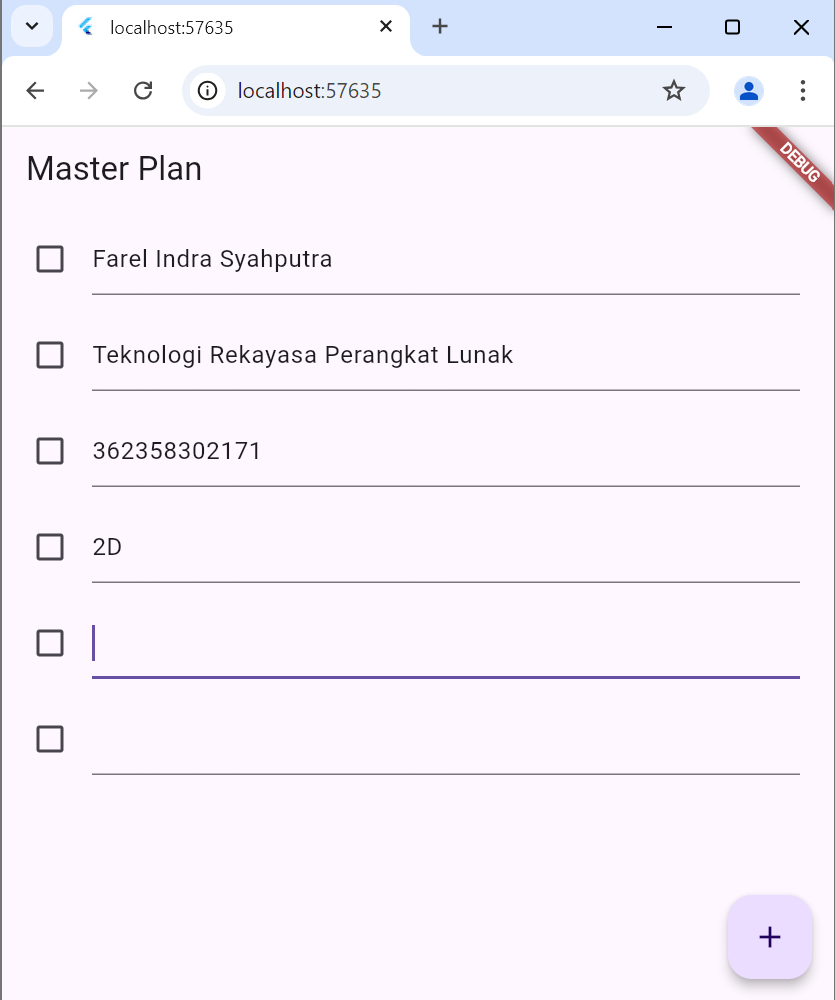
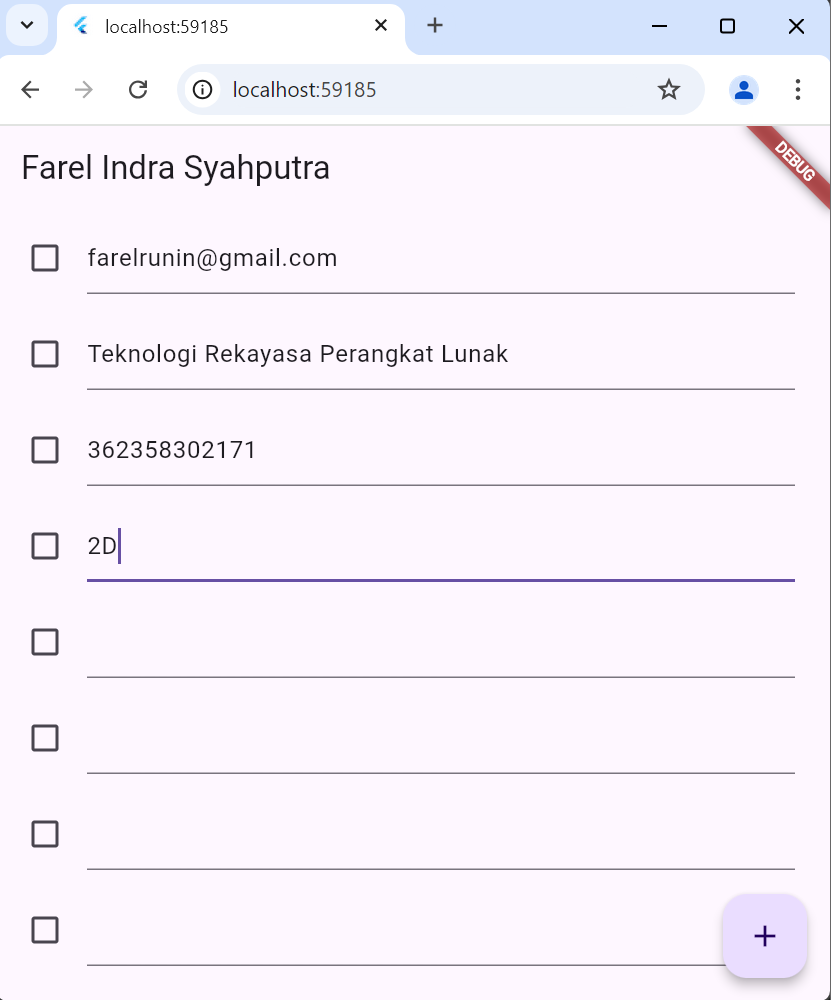
Update message

diff --git a/lib/views/plan_screen.dart b/lib/views/plan_screen.dart
@@ -24,7 +24,7 @@ class _PlanScreenState extends State<PlanScreen> {
   @override
   Widget build(BuildContext context) {
     return Scaffold(
-      appBar: AppBar(title: const Text('Master Plan')),
+      appBar: AppBar(title: const Text('Farel Indra Syahputra')),
       body: _buildList(),
       floatingActionButton: _buildAddTaskButton(),  // Memanggil _buildAddTaskButton
     );
@@ -95,3 +95,5 @@ class _PlanScreenState extends State<PlanScreen> {
     super.dispose();
   }
 }
+
+

diff --git a/README.md b/README.md
@@ -4,6 +4,7 @@
 
 # Tugas Praktikum 1: Dasar State dengan Model-View
 
+# soal
 1. Selesaikan langkah-langkah praktikum tersebut, lalu dokumentasikan berupa GIF hasil
 akhir praktikum beserta penjelasannya di file README.md! Jika Anda menemukan ada
 yang error atau tidak berjalan dengan baik, silakan diperbaiki.
@@ -16,3 +17,47 @@ Anda buat!
 5. Apa kegunaan method pada Langkah 11 dan 13 dalam lifecyle state ?
 6. Kumpulkan laporan praktikum Anda berupa link commit atau repository GitHub ke
 spreadsheet yang telah disediakan!
+
+# hasil :
+
+1 hasil pratikum dokumentasi
+ 
+ ![GIF Demo](assets\images\hasil.png) 
+
+2 Jelaskan maksud dari langkah 4 pada praktikum tersebut! Mengapa dilakukan
+demikian?
+
+    Langkah 4 (Pembuatan data_layer.dart): Pada langkah ini, kita membuat file data_layer.dart untuk mengimpor task.dart dan plan.dart dalam satu file. Dengan mengekspor file-file model di satu tempat, kita dapat mengakses model Task dan Plan dengan satu baris impor, yaitu import '../models/data_layer.dart';.
+
+    Alasan: Hal ini bertujuan untuk memudahkan pengelolaan impor di berbagai bagian aplikasi, terutama ketika jumlah model bertambah banyak. Dengan cara ini, struktur kode menjadi lebih rapi dan lebih mudah untuk diatur dan dipelihara.
+
+3 Mengapa perlu variabel plan di langkah 6 pada praktikum tersebut? Mengapa dibuat
+konstanta ?
+
+    Alasan Dibuatnya Variabel plan sebagai Konstanta pada Langkah 6
+    Langkah 6 (Deklarasi Variabel plan): Pada langkah ini, kita mendeklarasikan variabel plan dengan nilai awal sebagai konstanta Plan(). Ini dilakukan karena kita ingin plan memiliki nilai default untuk menghindari error jika aplikasi diakses tanpa data awal.
+
+    Mengapa Konstanta?
+
+    Menandai plan sebagai konstanta (const Plan()) di awal deklarasinya memungkinkan kita memberikan nilai default yang tidak berubah sepanjang hidup aplikasi.
+    Dengan menjadikannya konstanta, kita memastikan bahwa nilai awal Plan tidak mengalami perubahan yang tidak diinginkan sampai user melakukan aksi seperti menambah tugas baru atau mengedit data yang ada.
+
+4 Lakukan capture hasil dari Langkah 9 berupa GIF, kemudian jelaskan apa yang telah
+Anda buat!
+
+![GIF Demo](assets\images\image4.png) 
+
+dari langkah 9 yang di tambahkan 
+
+    Widget Dinamis dengan ListView.builder: Anda menambahkan kode untuk membuat tampilan daftar (ListTile) secara dinamis dengan menggunakan ListView.builder. Setiap Task dalam plan.tasks akan di-render sebagai item dalam ListView. Ini memungkinkan Anda menambahkan atau menghapus item secara dinamis, sehingga setiap kali ada perubahan, UI akan menyesuaikan diri tanpa perlu perubahan tambahan pada struktur kode.
+
+    Fitur Scroll: Secara otomatis, penggunaan ListView.builder akan mengaktifkan fitur scroll apabila jumlah Task melebihi ruang yang tersedia pada layar. Ini memungkinkan pengguna menggulir tampilan untuk melihat seluruh daftar Task.
+
+    Checkbox dan TextFormField: Pada setiap ListTile, terdapat checkbox untuk menandai Task sebagai selesai atau belum selesai (complete), serta TextFormField yang memungkinkan pengubahan deskripsi Task secara langsung. Perubahan ini akan disimpan dan tampil secara real-time pada UI melalui setState, yang memperbarui variabel plan setiap kali ada perubahan.
+
+5  Apa kegunaan method pada Langkah 11 dan 13 dalam lifecyle state ?
+
+    nitState(): Digunakan untuk inisialisasi data atau objek yang memerlukan konteks dan interaksi dengan widget sebelum ditampilkan, seperti menambahkan listener pada ScrollController.
+
+    dispose(): Dipakai untuk membersihkan sumber daya yang telah digunakan oleh widget sebelum widget dihapus atau tidak digunakan lagi, seperti memanggil dispose() pada ScrollController untuk mencegah memory leaks.
+
